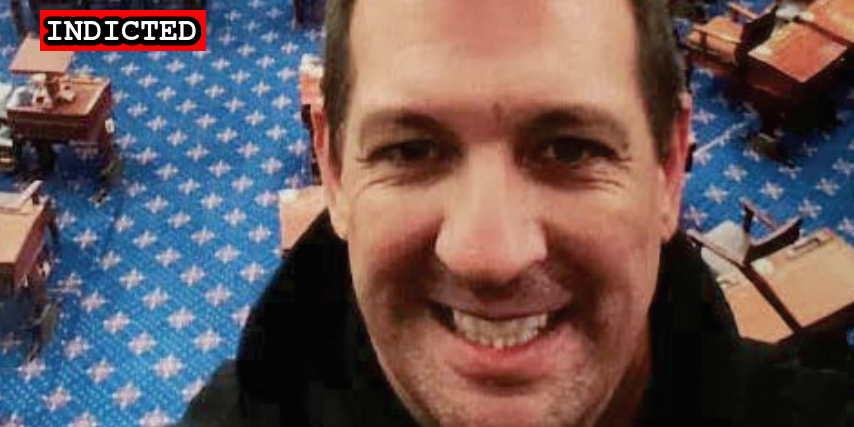
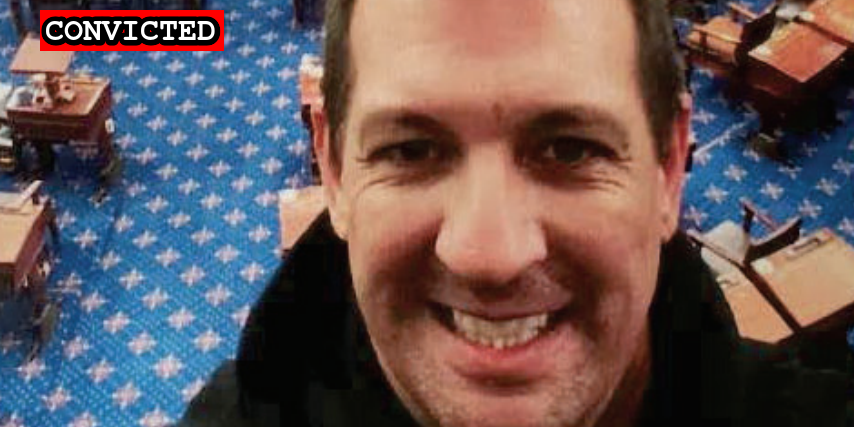
Guilty plea

Changed region(s): [[0.0304, 0.0, 0.274, 0.1218]]

diff --git a/docs/_suspects/anthony-mariotto.md b/docs/_suspects/anthony-mariotto.md
@@ -3,13 +3,13 @@ name: Anthony Mariotto
 lastName: Mariotto
 aka:
 residence: Florida
-status: Indicted
+status: Convicted
 date: 2021-01-22
 charged: 2021-01-22
 indicted: 2021-02-08
-convicted: 
-sentenced: 
-dismissed: 
+convicted: 2021-09-24
+sentenced:
+dismissed:
 deceased:
 age:
 occupation:
@@ -29,7 +29,13 @@ author: seditiontrack
 layout: suspect
 published: true
 caseNumber: 1:21-cr-94
+charges:
+  - code: 18 USC § 5104(e)(2)(G)
+    title: Parading, Demonstrating or Picketing in a Capitol Building
+    url: https://www.law.cornell.edu/uscode/text/40/5104
+    felony: false
 ---
+
 - [News Report](https://floridadailypost.com/fort-pierce-man-faces-capitol-riot-charges-posting-images/)
 - [Complaint](https://www.justice.gov/opa/page/file/1359631/download)
 - [Statement of Facts](https://www.justice.gov/opa/page/file/1359631/download)

diff --git a/docs/_suspects/andrew-ericson.md b/docs/_suspects/andrew-ericson.md
@@ -8,8 +8,8 @@ date: 2021-01-22
 charged: 2021-01-22
 indicted:
 convicted: 2021-09-23
-sentenced: 
-dismissed: 
+sentenced:
+dismissed:
 deceased:
 age: 23
 occupation:
@@ -31,7 +31,12 @@ published: true
 caseNumber: 1:21-mj-131
 videos:
 charges:
+  - code: 18 USC § 5104(e)(2)(G)
+    title: Parading, Demonstrating or Picketing in a Capitol Building
+    url: https://www.law.cornell.edu/uscode/text/40/5104
+    felony: false
 ---
+
 - [News Report](https://tulsaworld.com/news/local/oklahoma-man-faces-charges-in-connection-with-capitol-riot/article_1afe3f28-5d08-11eb-ad02-77c1bc298fa5.html)
 - [Statement of Facts](https://www.justice.gov/opa/page/file/1359591/download)
 - [Complaint](https://www.justice.gov/opa/page/file/1359591/download)
